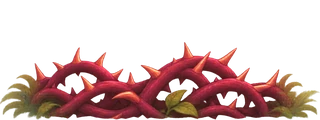
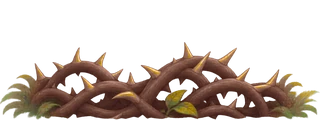
Recolour the clearing and neon thorns into the tree's palette and lay them in the courses (OP-373)
The clearing's berry-red thorns and the neon city's pink tubes were held out of the course rooms
because the Kit screens check found 1.6 to 3.2 % of those screens off the tree's palette. Both
paintings are now recoloured: every opaque pixel is pulled to within 8 (a, b) of its nearest
palette family with its lightness kept, so the clearing's thorns are bark-brown vines with gold
spikes and the neon tubes glow lantern gold among violet wires. Alpha and sizes are unchanged.

The clearing course's pits and the neon course's drops use them again. Every screen of
canopy-1, canopy-3 and circuit-1 to 3 is now at most 0.8 % off the palette (limit 1.5 %).

diff --git a/packages/shared/rooms/neonCourse.ts b/packages/shared/rooms/neonCourse.ts
@@ -89,12 +89,12 @@ const deck = (id: string, x0: number, x1: number) => ({ id, x0, x1, top: 0, row:
 const drop = (id: string, x0: number, x1: number) => ({ id, x0, x1, top: 0, mid: 'kit-tex-neon-corrugated-tin', sunk: STREET_SUNK, shade: 0x4a4470 });
 
 /**
- * Live neon tubes standing up out of the street between two buildings, too close together to land among, their tops over the line of the decks: the drop is a fall.
- * The city's painted neon hazard (kit-neon-hazard-thorns, OP-373) waits in the kit: laid along these drops it is more of the screen off the tree's palette than the screen check allows.
+ * The city's painted neon tubes (kit-neon-hazard-thorns, OP-373), live and wrapped in wire, laid along the street between two buildings,
+ * too close together to land among, their sparks over the line of the decks: the drop is a fall. Recoloured into the tree's palette.
  */
-function tubes(x0: number, x1: number, step = 140): KitDecal[] {
+function tubes(x0: number, x1: number, step = 300): KitDecal[] {
   const out: KitDecal[] = [];
-  for (let x = x0 + step / 2, i = 0; x < x1; x += step, i++) out.push({ piece: 'kit-neon-neon-tube-hazard', x, y: G + STREET_SUNK - 74, scale: 0.7, hazard: true, ...(i % 2 ? { flip: true } : {}) });
+  for (let x = x0 + step / 2, i = 0; x < x1; x += step, i++) out.push({ piece: 'kit-neon-hazard-thorns', x, y: G + STREET_SUNK - 90, scale: 1.5, hazard: true, ...(i % 2 ? { flip: true } : {}) });
   return out;
 }
 

diff --git a/packages/shared/rooms/updraftCanopy.ts b/packages/shared/rooms/updraftCanopy.ts
@@ -100,10 +100,9 @@ const vents = (cols: readonly Updraft[]): KitDecal[] => cols.map((u) => ({ piece
 
 /**
  * Bramble filling a pit of the ground line, patch by patch, as solid as the thorns it is (OP-343): no walk shows through it.
- * The clearing's berry-red painted thorns (kit-clearing-hazard-thorns, OP-373) wait in the kit: filling these pits
- * they are more of the screen off the tree's palette than the screen check allows.
+ * The clearing's painted thorns (kit-clearing-hazard-thorns, OP-373), recoloured into the tree's palette, fill the course's pits.
  */
-function bramble(x0: number, x1: number, piece = 'kit-clearing-bramble-patch', step = 240): KitDecal[] {
+function bramble(x0: number, x1: number, piece = 'kit-clearing-hazard-thorns', step = 240): KitDecal[] {
   const out: KitDecal[] = [];
   for (let x = x0 + step / 2, i = 0; x < x1; x += step, i++) out.push({ piece, x, y: G - 30, hazard: true, ...(i % 2 ? { flip: true } : {}) });
   return out;
